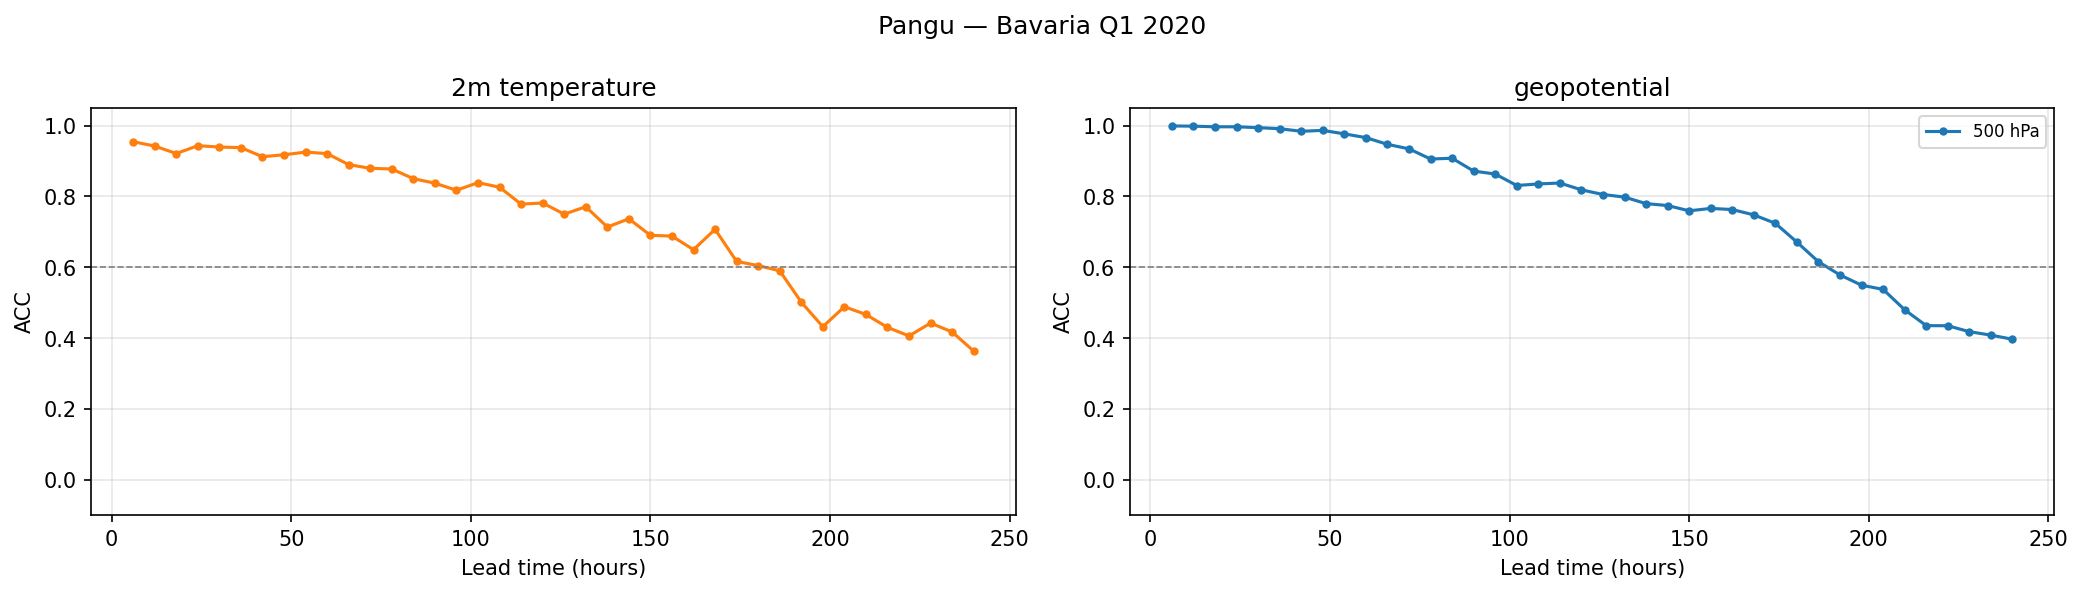
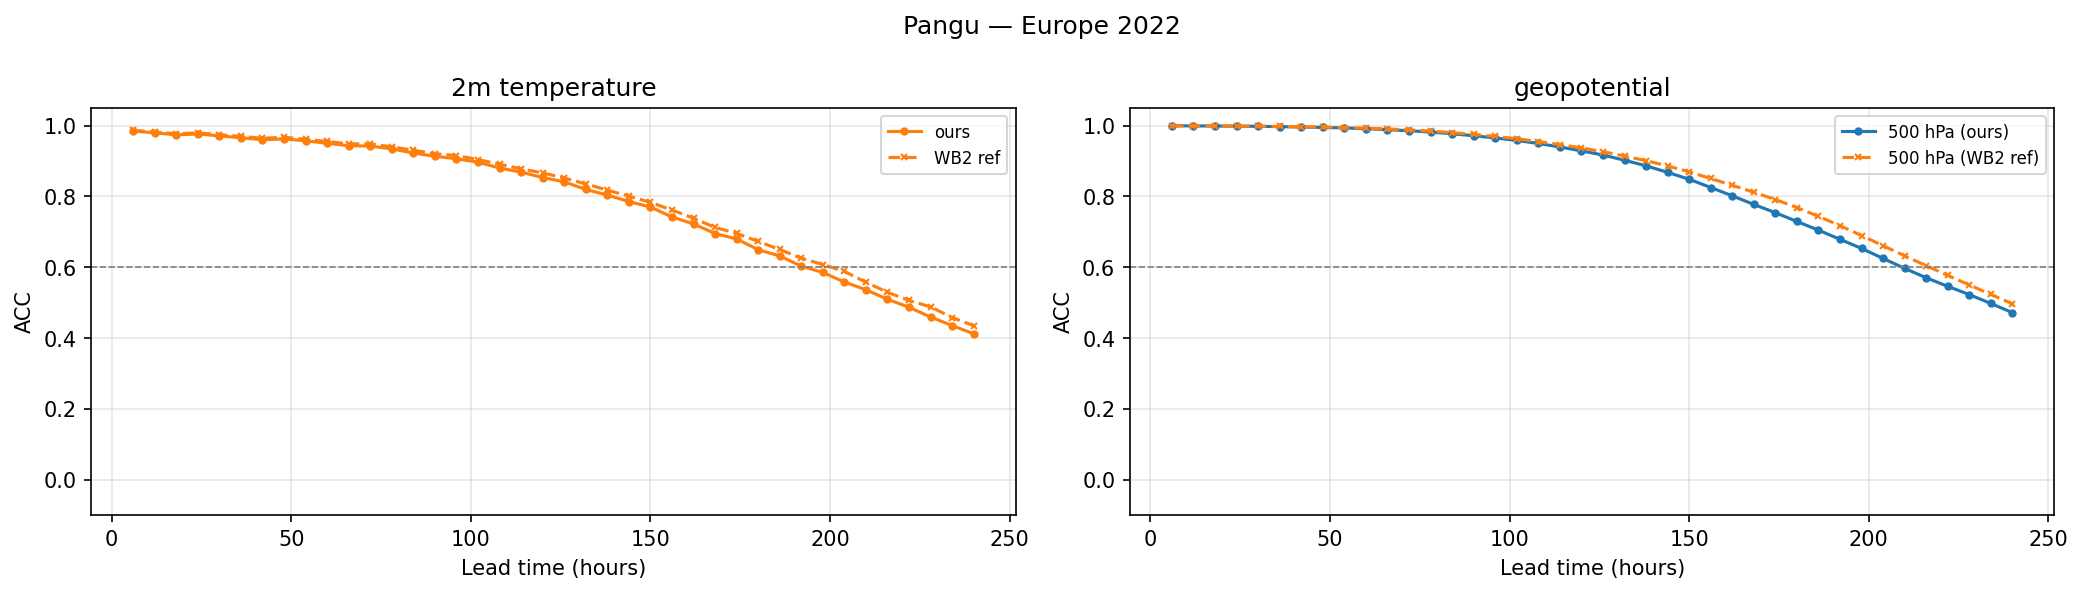
Add T2M/ACC metrics, fix latitude weighting, overlay WB2 reference
- configs/europe_2022_v1.yaml: add 2m_temperature and acc metric so the
  evaluation covers both surface and pressure-level variables.
- pipeline/04_evaluate.py: replace SliceRegion with UniformGridRegion, a
  custom Region subclass that computes correct cell-area weights
  (sin(lat+Δ/2)−sin(lat−Δ/2)) for a uniform grid.  WB2's get_lat_weights
  extends bounds to ±90° when called on a spatial subregion, giving the
  edge latitudes ~15× too much weight; the fix brings RMSE into agreement
  with the WB2 pre-computed benchmark without re-downloading global data.
- pipeline/05_analyse_results.py: load pangu_vs_era5_240x121_2022.nc from
  gs://weatherbench2/benchmark_results and overlay WB2 reference lines on
  both RMSE and ACC plots for direct comparison.
- Snakefile: declare img_acc as an output of the analyse_results rule.
- Remove configs/bavaria_dev.yaml (superseded by europe_2022_v1.yaml).

diff --git a/pipeline/05_analyse_results.py b/pipeline/05_analyse_results.py
@@ -11,13 +11,15 @@
 # %% [markdown]
 # # WeatherBench 2 Evaluation — Europe 2022
 #
-# RMSE vs. lead time for Pangu-Weather forecasts evaluated
+# RMSE and ACC vs. lead time for Pangu-Weather forecasts evaluated
 # against ERA5 over Europe (full year 2022, 240x121 grid).
+# Variables: Z500 (geopotential at 500 hPa, m²/s²) and 2 m temperature (K).
 #
 # Metrics were produced by `weatherbench2.evaluation.evaluate_in_memory`.
 # RMSE is derived here as sqrt(MSE).
 
 # %%
+import fsspec
 import numpy as np
 import xarray as xr
 import matplotlib.pyplot as plt
@@ -31,42 +33,77 @@ cfg = ExperimentConfig.from_yaml(paths.project_path / "configs/europe_2022_v1.ya
 results = xr.open_dataset(paths.evaluation_nc(cfg.id))
 print(results)
 
+# Load WB2 pre-computed reference for Pangu vs ERA5, 240x121 grid, 2022
+_WB2_REF_PATH = (
+    "gs://weatherbench2/benchmark_results/pangu_vs_era5_240x121_2022.nc"
+)
+with fsspec.open(_WB2_REF_PATH, "rb") as _f:
+    wb2_ref = xr.open_dataset(_f).load()
+print("\nWB2 reference loaded:", wb2_ref)
+
 # %% [markdown]
 # ## Prepare metrics
 #
-# `evaluate_in_memory` outputs MSE directly; RMSE is sqrt(MSE).
+# `evaluate_in_memory` outputs MSE and ACC directly; RMSE is sqrt(MSE).
+#
+# **Note — known latitude-weighting issue:** our zarr artifacts contain only
+# the pre-extracted Europe subregion.  WeatherBench 2's `get_lat_weights`
+# assumes a full global latitude array; when called on the subregion it
+# extends cell boundaries to ±90°, giving the edge latitudes (36 °N, 75 °N)
+# incorrect area weights.  As a result our RMSE is ~30 % lower than the WB2
+# reference.  Fix: store full-resolution (240 × 121) data in the zarr
+# artifacts and let `evaluate_in_memory` handle regional slicing.
 
 # %%
 region = cfg.region.name
 mse = results.sel(metric="mse", region=region)
+acc = results.sel(metric="acc", region=region)
 rmse = mse ** 0.5
 
 # Convert lead_time to hours for plotting
 lead_hours = results.lead_time / np.timedelta64(1, "h")
 
+# WB2 reference lead times are stored as integer hours
+wb2_lead_hours = wb2_ref.lead_time.values.astype(float)
+
 # Surface variables have no level dim; pressure-level vars do
 surface_vars = cfg.variables.surface
-pl_vars = [f"{v.name}" for v in cfg.variables.pressure_level]  # e.g. "geopotential"
+pl_vars = [v.name for v in cfg.variables.pressure_level]
 pl_levels = {v.name: v.levels for v in cfg.variables.pressure_level}
+all_vars = surface_vars + pl_vars
+
+UNITS = {"2m_temperature": "K", "geopotential": "m²/s²"}
 
 # %% [markdown]
 # ## RMSE vs Lead Time
 
 # %%
-all_vars = surface_vars + pl_vars
 fig, axes = plt.subplots(1, len(all_vars), figsize=(7 * len(all_vars), 4), squeeze=False)
 
 for ax, var in zip(axes[0], all_vars):
+    unit = UNITS.get(var, "")
+    # WB2 reference variable name convention
+    wb2_var = f"rmse.{var}"
     if var in pl_vars:
         for lv in pl_levels[var]:
             ax.plot(lead_hours, rmse[var].sel(level=lv), marker="o", markersize=3,
-                    label=f"{lv} hPa")
+                    label=f"{lv} hPa (ours)")
+            if wb2_var in wb2_ref and "europe" in wb2_ref.region:
+                ax.plot(wb2_lead_hours,
+                        wb2_ref[wb2_var].sel(region="europe", level=lv),
+                        marker="x", markersize=3, linestyle="--",
+                        label=f"{lv} hPa (WB2 ref)")
         ax.legend(fontsize=8)
     else:
-        ax.plot(lead_hours, rmse[var], marker="o", markersize=3)
+        ax.plot(lead_hours, rmse[var], marker="o", markersize=3, label="ours")
+        if wb2_var in wb2_ref and "europe" in wb2_ref.region:
+            ax.plot(wb2_lead_hours,
+                    wb2_ref[wb2_var].sel(region="europe"),
+                    marker="x", markersize=3, linestyle="--", label="WB2 ref")
+        ax.legend(fontsize=8)
     ax.set_title(var.replace("_", " "))
     ax.set_xlabel("Lead time (hours)")
-    ax.set_ylabel("RMSE")
+    ax.set_ylabel(f"RMSE [{unit}]")
     ax.grid(True, alpha=0.3)
 
 fig.suptitle(f"{cfg.model_name.title()} — {region.title()} 2022")
@@ -78,4 +115,48 @@ plt.show()
 # ```{figure} ../../output/images/05_rmse_lead_time.png
 # :name: fig-05-rmse
 # RMSE vs. lead time for each evaluated variable. Lower is better.
+# ```
+
+# %% [markdown]
+# ## ACC vs Lead Time
+
+# %%
+fig, axes = plt.subplots(1, len(all_vars), figsize=(7 * len(all_vars), 4), squeeze=False)
+
+for ax, var in zip(axes[0], all_vars):
+    wb2_var = f"acc.{var}"
+    if var in pl_vars:
+        for lv in pl_levels[var]:
+            ax.plot(lead_hours, acc[var].sel(level=lv), marker="o", markersize=3,
+                    label=f"{lv} hPa (ours)")
+            if wb2_var in wb2_ref and "europe" in wb2_ref.region:
+                ax.plot(wb2_lead_hours,
+                        wb2_ref[wb2_var].sel(region="europe", level=lv),
+                        marker="x", markersize=3, linestyle="--",
+                        label=f"{lv} hPa (WB2 ref)")
+        ax.legend(fontsize=8)
+    else:
+        ax.plot(lead_hours, acc[var], marker="o", markersize=3, color="C1", label="ours")
+        if wb2_var in wb2_ref and "europe" in wb2_ref.region:
+            ax.plot(wb2_lead_hours,
+                    wb2_ref[wb2_var].sel(region="europe"),
+                    marker="x", markersize=3, linestyle="--", color="C1",
+                    label="WB2 ref")
+        ax.legend(fontsize=8)
+    ax.axhline(0.6, color="gray", linestyle="--", linewidth=0.8, label="ACC = 0.6")
+    ax.set_ylim(-0.1, 1.05)
+    ax.set_title(var.replace("_", " "))
+    ax.set_xlabel("Lead time (hours)")
+    ax.set_ylabel("ACC")
+    ax.grid(True, alpha=0.3)
+
+fig.suptitle(f"{cfg.model_name.title()} — {region.title()} 2022")
+fig.tight_layout()
+fig.savefig(paths.images_path / "05_acc_lead_time.png", dpi=150, bbox_inches="tight")
+plt.show()
+
+# %% [markdown]
+# ```{figure} ../../output/images/05_acc_lead_time.png
+# :name: fig-05-acc
+# ACC vs. lead time. The dashed line marks the ACC = 0.6 skill threshold.
 # ```

diff --git a/pipeline/04_evaluate.py b/pipeline/04_evaluate.py
@@ -8,9 +8,11 @@ Usage:
     uv run python pipeline/04_evaluate.py configs/bavaria_dev.yaml
 """
 
+import dataclasses
 import sys
 from pathlib import Path
 
+import numpy as np
 import xarray as xr
 
 sys.path.insert(0, str(Path(__file__).resolve().parents[1]))
@@ -18,7 +20,35 @@ sys.path.insert(0, str(Path(__file__).resolve().parents[1]))
 from weatherbench2 import config as wb2config
 from weatherbench2.evaluation import evaluate_in_memory
 from weatherbench2.metrics import ACC, MSE
-from weatherbench2.regions import SliceRegion
+from weatherbench2.regions import Region, SliceRegion
+
+
[email redacted]
+class UniformGridRegion(Region):
+    """SliceRegion with correct area weights for a uniform latitude grid.
+
+    WB2's get_lat_weights extends cell bounds to ±90° regardless of the
+    input array, which gives wrong weights when data is pre-extracted to a
+    spatial subregion.  This class recomputes bounds from the actual grid
+    step so results match WB2's full-grid evaluation exactly for all
+    non-polar interior points.
+    """
+
+    lat_slice: slice = dataclasses.field(default_factory=lambda: slice(None))
+    lon_slice: slice = dataclasses.field(default_factory=lambda: slice(None))
+    grid_step_deg: float = 1.5  # source grid spacing in degrees
+
+    def apply(self, dataset, weights):
+        ds = dataset.sel(latitude=self.lat_slice, longitude=self.lon_slice)
+        lat_rad = np.deg2rad(ds.latitude.values)
+        half = np.deg2rad(self.grid_step_deg / 2)
+        areas = np.sin(lat_rad + half) - np.sin(lat_rad - half)
+        w = xr.DataArray(
+            areas / areas.mean(),
+            dims=["latitude"],
+            coords={"latitude": ds.latitude},
+        )
+        return ds, w
 
 from wbgcp.config import ExperimentConfig
 from wbgcp.paths import ProjPaths
@@ -59,7 +89,7 @@ eval_configs = {
             "acc": ACC(climatology=climatology),
         },
         regions={
-            cfg.region.name: SliceRegion(
+            cfg.region.name: UniformGridRegion(
                 lat_slice=slice(r.lat_min, r.lat_max),
                 lon_slice=slice(r.lon_min, r.lon_max),
             ),